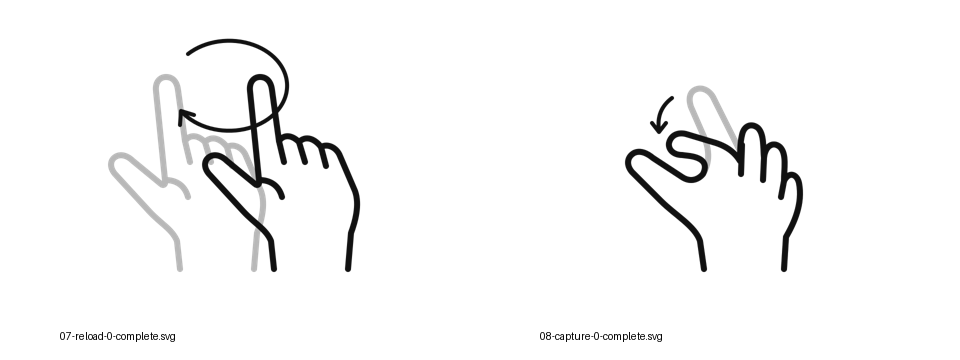
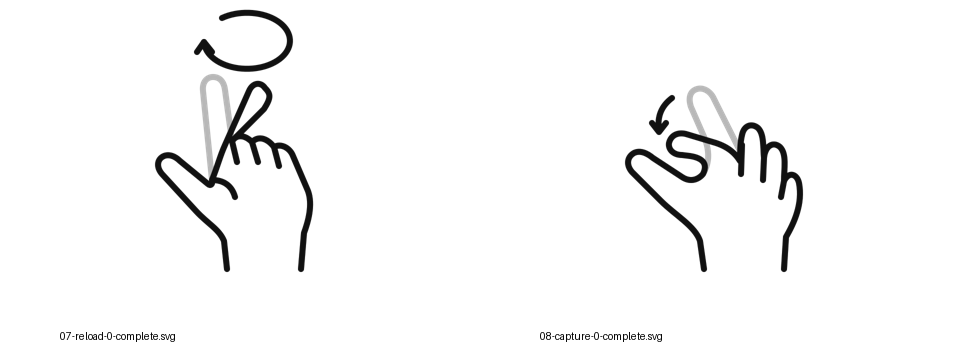
Keep palm fixed for finger circling; match arrow and hand stroke width

Changed region(s): [[0.0938, 0.0306, 0.375, 0.7639], [0.6562, 0.3361, 0.7188, 0.3667], [0.6875, 0.275, 0.7188, 0.3056]]

diff --git a/tools/build_samples.py b/tools/build_samples.py
@@ -4,6 +4,7 @@ from xml.sax.saxutils import escape
 ROOT=Path(__file__).resolve().parents[1]
 # Original path drawings, not traced or copied from source-deck vectors.
 POINT='M 147,269 L 144,241 C 139,229 128,224 116,211 L 82,174 C 76,167 77,159 84,156 C 89,154 95,156 100,161 L 128,184 C 130,186 133,185 132,180 L 123,91 C 122,82 127,77 133,77 C 140,77 144,82 145,90 L 152,141 C 157,134 165,135 172,142 C 179,135 188,139 194,147 C 201,143 210,148 213,156 L 228,191 C 233,205 228,222 224,233 L 221,269'
+POINT_END=POINT.replace('L 123,91 C 122,82 127,77 133,77 C 140,77 144,82 145,90 L 152,141', 'C 138,165 140,156 145,145 L 169,91 C 173,82 181,82 185,88 C 191,94 191,98 184,109 L 152,141')
 POINT_DETAILS=['M 152,141 L 157,162','M 172,142 L 178,162','M 194,147 L 199,166','M 132,180 C 144,180 152,186 155,197']
 # Thumb is stable. Index moves downward while retaining a visible gap at the end.
 TAIL='C 180,155 180,143 182,135 C 184,125 192,123 198,128 C 204,134 203,146 204,158 C 205,146 213,141 220,147 C 227,154 224,169 224,181 C 229,171 237,174 239,183 C 243,204 234,223 226,237 L 224,269'
@@ -26,15 +27,15 @@ def write(command,stage,title,body):
 for stage,path in [('1-start',START),('2-end',END)]:
  write('08-capture',stage,'截圖：半捏合快門 '+stage,hand(path,DETAILS,'#111111',ident='start' if stage.startswith('1') else 'end'))
 # Moving index is legible above stable geometry: the shared palm/wrist naturally overlap.
-body=hand(START,DETAILS,'#B8B8B8',ident='start')+'\n'+hand(END,DETAILS,'#111111',ident='end')+'''\n<g id="motion" stroke="#111111" fill="none" stroke-width="4" stroke-linecap="round" stroke-linejoin="round">
+body=hand(START,DETAILS,'#B8B8B8',ident='start')+'\n'+hand(END,DETAILS,'#111111',ident='end')+'''\n<g id="motion" stroke="#111111" fill="none" stroke-width="6" stroke-linecap="round" stroke-linejoin="round">
 <path d="M 112,98 Q 96,110 99,130"/><path d="M 92,123 L 99,132 L 106,123"/>
 </g>'''
 write('08-capture','0-complete','截圖：半捏合快門完整示意',body)
-# Finger traverses a clockwise circle, not twisting about the finger's longitudinal axis.
-for stage,tx in [('1-start',-47),('2-end',47)]:
- write('07-reload',stage,'重播：食指順時針畫圈 '+stage,hand(POINT,POINT_DETAILS,'#111111',f'translate({tx} 0)',ident='start' if stage.startswith('1') else 'end'))
-body=hand(POINT,POINT_DETAILS,'#B8B8B8','translate(-47 0)',ident='start')+'\n'+hand(POINT,POINT_DETAILS,'#111111','translate(47 0)',ident='end')+'''\n<g id="motion" stroke="#111111" fill="none" stroke-width="4" stroke-linecap="round" stroke-linejoin="round">
-<path d="M 108,54 A 58,45 0 1 1 102,112"/>
-<path d="M 100,125 L 101,111 L 114,115"/>
+# Palm and non-index fingers share identical geometry; only the index changes.
+for stage,path in [('1-start',POINT),('2-end',POINT_END)]:
+ write('07-reload',stage,'重播：食指順時針畫圈 '+stage,hand(path,POINT_DETAILS,'#111111',ident='start' if stage.startswith('1') else 'end'))
+body=hand(POINT,POINT_DETAILS,'#B8B8B8',ident='start')+'\n'+hand(POINT_END,POINT_DETAILS,'#111111',ident='end')+'''\n<g id="motion" stroke="#111111" fill="none" stroke-width="6" stroke-linecap="round" stroke-linejoin="round">
+<path d="M 142,18 A 43,28 0 1 1 124,42"/>
+<path d="M 117,52 L 124,42 L 132,52"/>
 </g>'''
-write('07-reload','0-complete','重播：食指順時針畫圈完整示意',body)
+write('07-reload','0-complete','重播：僅食指順時針畫圈完整示意',body)

diff --git a/README.md b/README.md
@@ -2,7 +2,7 @@
 
 以兩組研究指令集為基礎，重新繪製風格一致、可編輯的黑白 SVG，供論文、簡報與手勢操作說明使用。相同指令可能使用不同手勢，圖示以實際姿態和動作為準。
 
-**目前進度：首輪樣圖，尚未定稿。** 已繪製非本國組的食指順時針畫圈、半捏合快門，各提供完整示意、起始姿態、結束姿態。其餘圖示將依樣圖回饋接續繪製。
+**目前進度：首輪樣圖，尚未定稿。** 已繪製非本國組的僅食指順時針畫圈、半捏合快門，各提供完整示意、起始姿態、結束姿態。其餘圖示將依樣圖回饋接續繪製。
 
 ## 組別與資料夾
 
@@ -32,7 +32,7 @@
 | 08 | 截圖 | `capture` | 手指完整捏合 | 手指半捏合，像按下快門 |
 | 09 | 關閉 | `close` | 握拳 | 握拳 |
 
-「手指指向」目前按方向姿態整理；是否需要表達額外的手指移動，應依研究者後續確認。「順時針畫圈」目前按畫面中可見的圓形運動軌跡呈現，不表示手指繞自身長軸旋轉。手掌画圈的具體視角與旋轉軸仍須在繪製時核對。
+「手指指向」目前按方向姿態整理；是否需要表達額外的手指移動，應依研究者後續確認。「順時針畫圈」目前按畫面中可見的圓形運動軌跡呈現，不表示手指繞自身長軸旋轉。手掌畫圈的具體視角與旋轉軸仍須在繪製時核對。
 
 ## 檔案命名
 
@@ -59,7 +59,7 @@
 | 手部 | 右手，簡化輪廓，保留辨識所需的手指分界 |
 | 畫布 | 共用 `viewBox="0 0 320 320"`，透明背景 |
 | 手部線條 | 6 個 SVG 座標單位，圓角端點與轉角 |
-| 動態箭頭 | 4 個 SVG 座標單位，黑色、開放式箭頭 |
+| 動態箭頭 | 6 個 SVG 座標單位，與手部相同粗細，黑色、簡化開放式箭頭 |
 | 起始姿態 | 淺灰 `#B8B8B8` |
 | 結束姿態 | 黑色 `#111111` |
 | 分開姿態 | 單獨的 start/end 都使用黑色，方便另行排版 |
@@ -79,6 +79,8 @@ SVG 中以 `start`、`end`、`motion` 群組分開編輯。部分重疊的穩定
 
 ## 首輪樣圖
 
+2026-10-10 修訂：食指畫圈改為手掌與其餘手指固定，只以灰黑兩種食指姿態呈現動作；兩張樣圖的箭頭線寬均調整為與手部相同的 6 單位。
+
 ![食指順時針畫圈與半捏合快門樣圖](previews/samples-review.png)
 
 | 手勢 | 完整圖 | 起始 | 結束 |
@@ -94,7 +96,7 @@ SVG 中以 `start`、`end`、`motion` 群組分開編輯。部分重疊的穩定
 - **繪製協助：** OpenAI Codex，GPT-6.1 Sol。
 - **製作方式：** AI 助理直接編寫 SVG 的 Bézier 曲線、線段與群組，依參考資料重新設計手型、姿態與動作箭頭。這些首輪樣圖是新編寫的向量路徑，未直接複製原簡報的手勢路徑。
 - **風格來源：** 使用者提供的研究簡報，參考其簡化輪廓與圓角線條，統一改為黑白灰。
-- **生成工具：** Python 寫入 SVG/XML 原始碼；Inkscape 渲染審查預覽。沒有使用 ImageGen 或其他點陣圖片生成模型，也没有將點陣圖嵌入 SVG。
+- **生成工具：** Python 寫入 SVG/XML 原始碼；Inkscape 渲染審查預覽。沒有使用 ImageGen 或其他點陣圖片生成模型，也沒有將點陣圖嵌入 SVG。
 - **品質檢查：** 檢查 SVG/XML 結構、確認沒有嵌入點陣圖，再渲染並目視檢查。動作意義與是否符合研究資料由研究者確認。
 
 若論文需要揭露 AI 協助，可使用：「手勢示意圖由研究者提供動作定義，使用 OpenAI Codex（GPT-6.1 Sol）協助編寫 SVG 向量路徑，並經研究者確認與修訂。」此句僅能在實際完成確認與修訂後使用。
